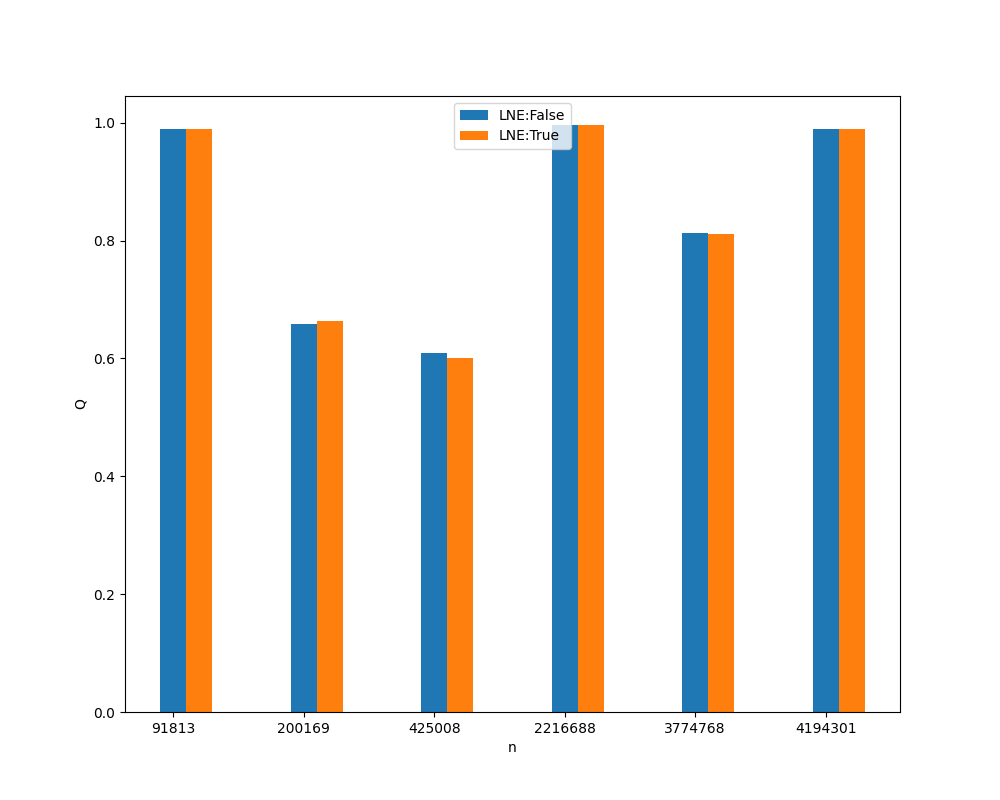
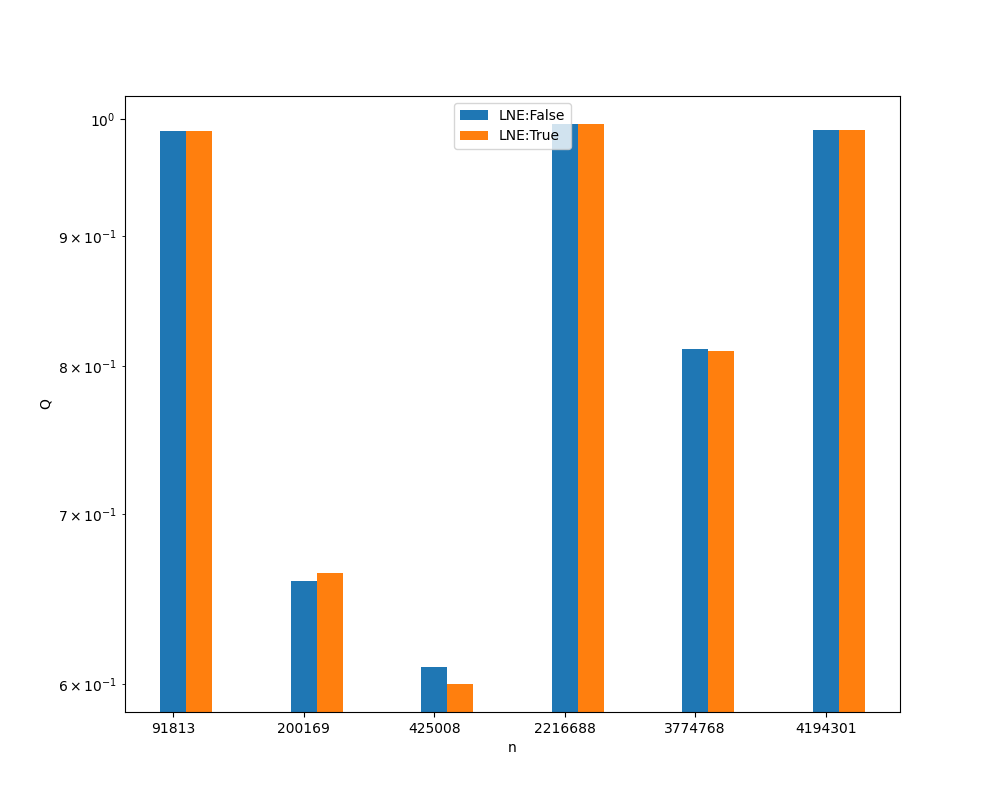
methods smaller

diff --git a/SNACSproject.py b/SNACSproject.py
@@ -66,7 +66,7 @@ if __name__ == "__main__":
 	# 3 = RAND_COMM
 	# 4 = RAND_NEIGH_COMM (Traag's Improved Method)
 	method_dict = {1: "ALL_COMMS", 2: "ALL_NEIGH_COMMS", 3: "RAND_COMM", 4:"RAND_NEIGH_COMM"}
-	settings_list = [(0.0, 1, False), (0.0, 2, False), (0.0, 3, False), (0.0, 4, False)]
+	settings_list = [(0.0, 2, False), (0.0, 4, False)]
 	networks = [readNetwork("rec-amazon.tsv", False), readNetwork("soc-academia.tsv"), readNetwork("rt-higgs.tsv"), readNetwork("webbase-1M.tsv"), readNetwork("inf-netherlands_osm.tsv", False), readNetwork("venturiLevel3.tsv", False), readNetwork("DIMACS10.tsv", directed=False)]
 	n_settings = len(settings_list)
 	ind = np.arange(len(networks))
@@ -83,8 +83,8 @@ if __name__ == "__main__":
 			t_single_run = []
 			print("________________________________________")
 			print("LNE used?: ", setting[2])
-			for i in range(10):
-				q, t, leafTime, l = performExperiment(network, setting[0], setting[1], setting[2])
+			for i in range(5):
+				q, t, leafTime = performExperiment(network, setting[0], setting[1], setting[2])
 				q_single_run.append(q)
 				t_single_run.append(t)
 			q = sum(q_single_run) / len(q_single_run)

diff --git a/plottingMethod.py b/plottingMethod.py
@@ -3,8 +3,8 @@ import matplotlib.pyplot as plt
 
 q_dict = #setting: [q, q, ...]
 t_dict = #setting: [(t, leafTime), (t, leafTime), ...]
-network_sizes = [91813, 200169, 425008, 1000005, 2216688, , 4194301]
-nLeaves = [19580, 18113, 282735, 0, 129231, , 54]
+network_sizes = [91813, 200169, 425008, 1000005, 2216688, 3774768, 4194301]
+nLeaves = [19580, 18113, 282735, 0, 129231, 667336, 54]
 method_dict = {1: "ALL_COMMS", 2: "ALL_NEIGH_COMMS", 3: "RAND_COMM", 4:"RAND_NEIGH_COMM"}
 
 #Plot Modularity

diff --git a/plottingLNE.py b/plottingLNE.py
@@ -15,6 +15,7 @@ for ix, val in enumerate(q_dict.values()):#setting: [modularity]
 plt.xticks(ticks=range(len(network_sizes)), labels=network_sizes)#ticks param for x location
 plt.xlabel("n")
 plt.ylabel("Q")
+ax.set_yscale("log")
 ax.legend(["LNE:{}".format(setting[2]) for setting in q_dict.keys()])
 plt.savefig('modularityLNEPlot.png')
 
